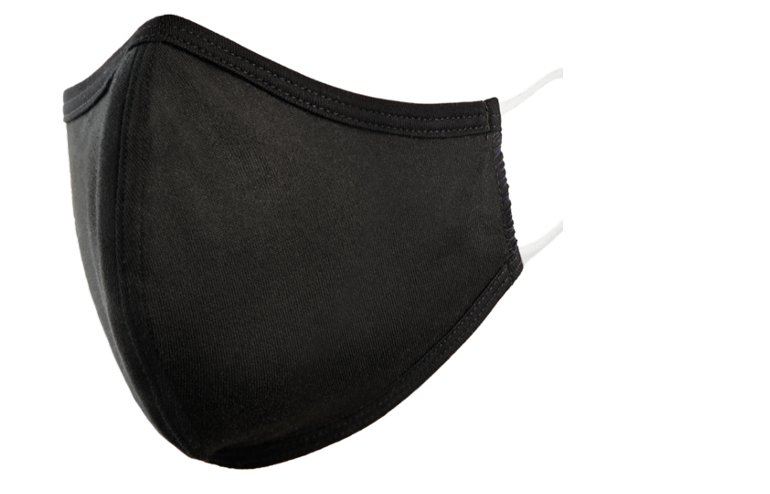
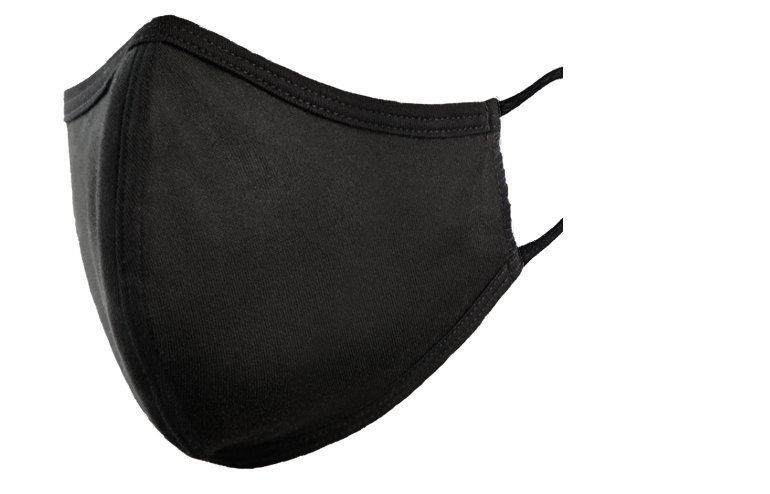
fix: remove white rim around masks

diff --git a/utils/aux_functions.py b/utils/aux_functions.py
@@ -356,12 +356,20 @@ def mask_face(image, face_location, six_points, angle, args, type="surgical"):
 
     # Apply mask
     mask_inv = cv2.bitwise_not(mask)
-    img_bg = cv2.bitwise_and(image, image, mask=mask_inv)
-    img_fg = cv2.bitwise_and(dst_mask, dst_mask, mask=mask)
-    out_img = cv2.add(img_bg, img_fg[:, :, 0:3])
-    if "empty" in type or "inpaint" in type:
-        out_img = img_bg
-    # Plot key points
+
+    img_bg = image.astype(np.float32)
+    _t = mask_inv.astype(np.float32) / 255
+    img_bg[:,:,0] *= _t
+    img_bg[:, :, 1] *= _t
+    img_bg[:, :, 2] *= _t
+
+    img_fg = dst_mask.astype(np.float32)
+    _t = mask.astype(np.float32) / 255
+    img_fg[:, :, 0] *= _t
+    img_fg[:, :, 1] *= _t
+    img_fg[:, :, 2] *= _t
+
+    out_img = cv2.add(img_bg.astype(np.uint8), img_fg[:, :, 0:3].astype(np.uint8))
 
     if "inpaint" in type:
         out_img = cv2.inpaint(out_img, mask, 3, cv2.INPAINT_TELEA)
